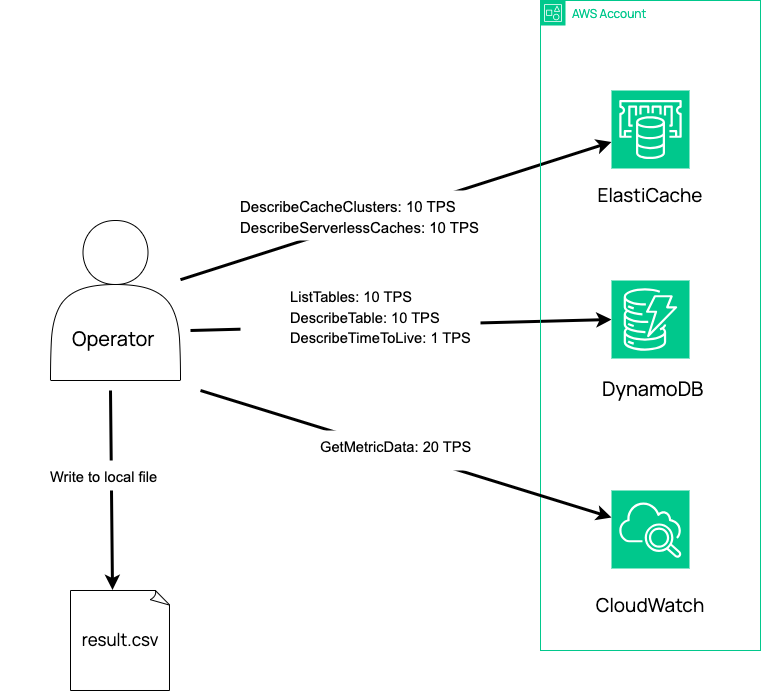
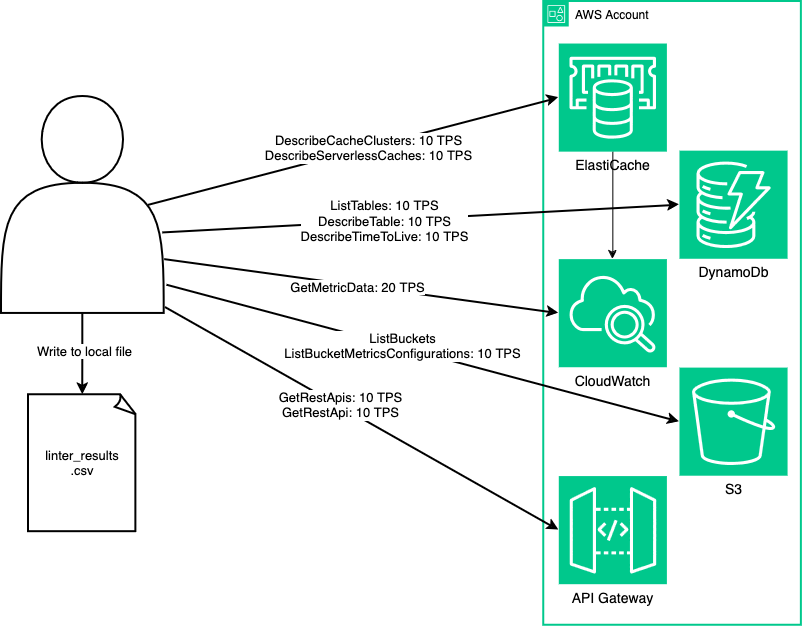
chore: Add the cloud linter optional services (#1142)
* chore: Add the cloud linter optional services

Add the Amazon services that cloud linter can optionally check, as well
as calls it makes.

* Update the diagram and add a rate limit to GetRestApi

* Update docs/cloud-linter/index.md

---------

diff --git a/docs/cloud-linter/index.md b/docs/cloud-linter/index.md
@@ -42,6 +42,10 @@ Cloud Linter is intended to interact with the following AWS services via their r
 - Amazon ElastiCache
 - Amazon CloudWatch
 
+It can optionally interact with the following AWS services:
+- Amazon S3, using the `--enable-s3` option
+- Amazon API Gateway, using the `--enable-api-gateway` option
+
 The usage of the software is limited to the following API calls and transactions per second (TPS):
 
 Elasticache:
@@ -55,6 +59,14 @@ DynamoDB:
 
 CloudWatch:
 - GetMetricData: 20 TPS
+
+S3:
+- ListBuckets
+- ListBucketMetricsConfigurations: 10 TPS
+
+API Gateway:
+- GetRestApis: 10 TPS
+- GetRestApi: 10 TPS
 
 Cloud Linter is designed to always stay within these specified limits. It's crafted with careful consideration to avoid generating any traffic to these APIs that could lead to AWS throttling or disrupt the normal operations of your AWS resources.
 Please note that while the average running time typically spans 15 minutes, this can vary significantly based on the volume of data being processed. Therefore, the process may extend up to 1 hour in some cases.
